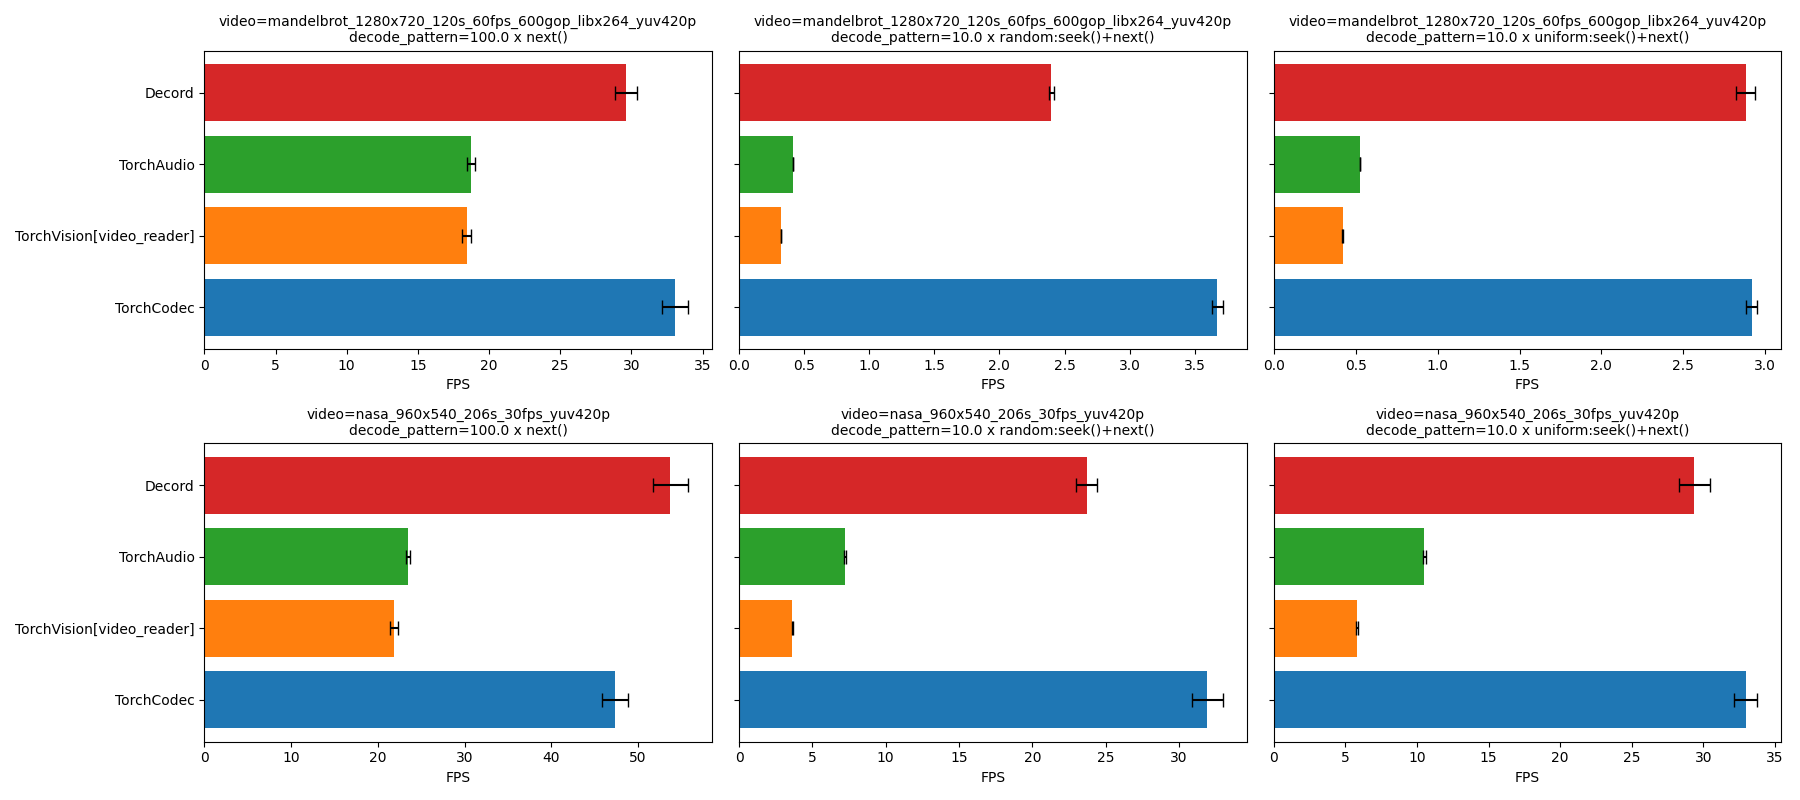
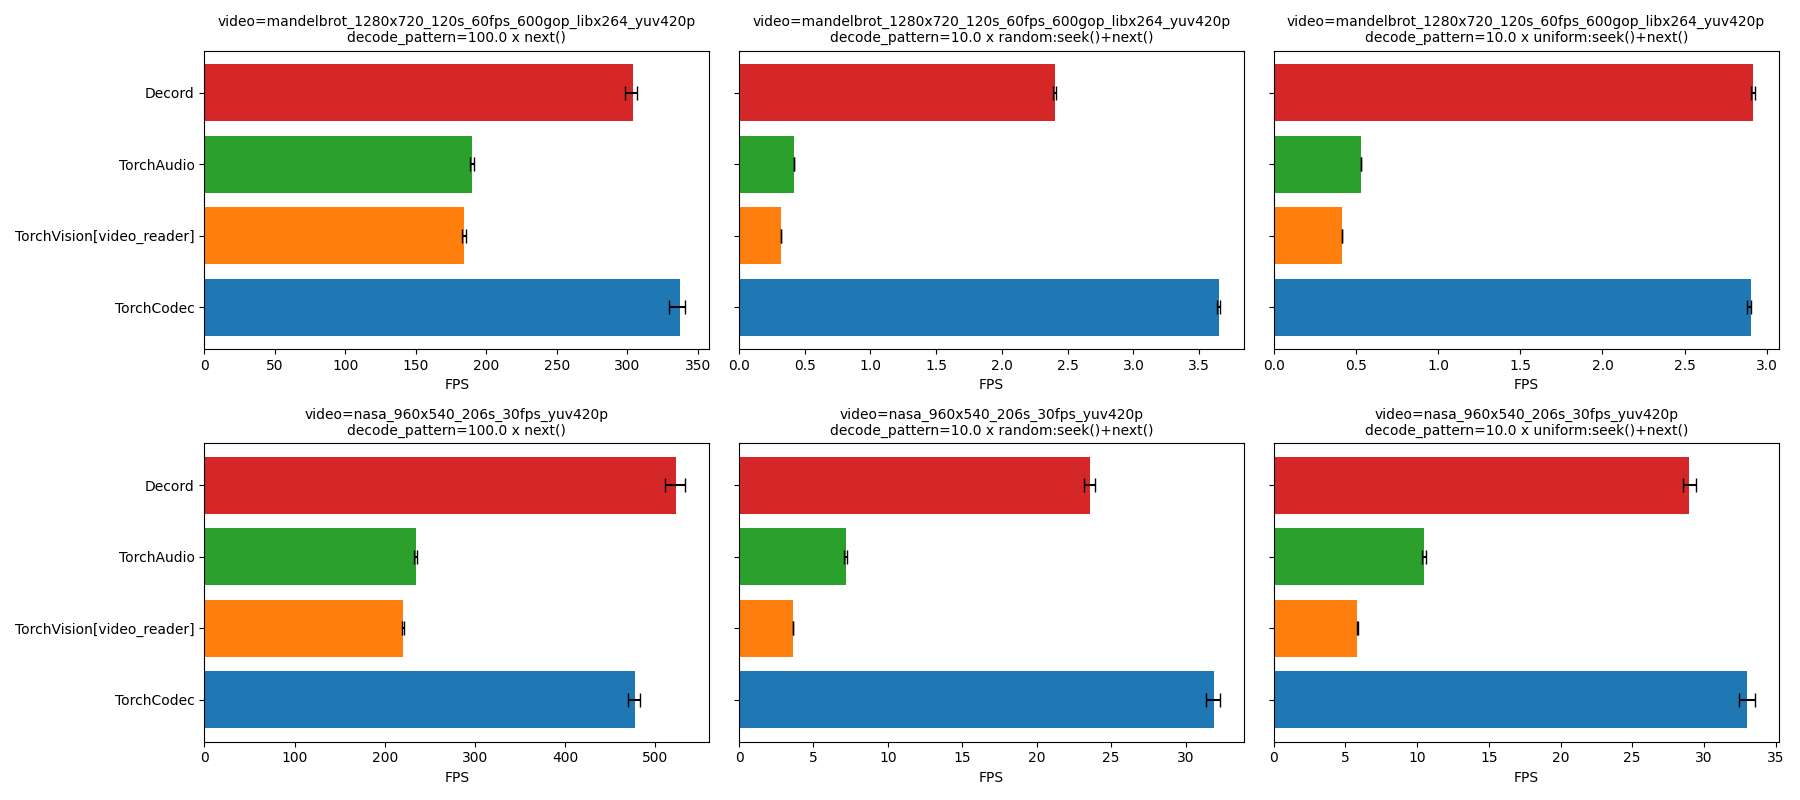
Revert mean back to median

diff --git a/benchmarks/decoders/benchmark_decoders_library.py b/benchmarks/decoders/benchmark_decoders_library.py
@@ -436,8 +436,8 @@ def plot_data(df_data, plot_path):
             # Plot bars with error bars
             ax.barh(
                 group["decoder"],
-                group["fps_mean"],
-                xerr=group["fps_std"],
+                group["fps_median"],
+                xerr=[group["fps_median"] - group["fps_p75"], group["fps_p25"] - group["fps_median"]],
                 color=[colors(i) for i in range(len(group))],
                 align="center",
                 capsize=5,
@@ -526,10 +526,6 @@ def run_benchmarks(
                 df_item["median"] = results[-1].median
                 df_item["iqr"] = results[-1].iqr
                 df_item["type"] = f"{kind}:seek()+next()"
-                df_item["fps_mean"] = num_samples / results[-1].mean
-                df_item["fps_std"] = np.std(
-                    [num_samples / t for t in results[-1].times]
-                )
                 df_item["fps_median"] = num_samples / results[-1].median
                 df_item["fps_p75"] = num_samples / results[-1]._p75
                 df_item["fps_p25"] = num_samples / results[-1]._p25
@@ -560,10 +556,6 @@ def run_benchmarks(
                 df_item["median"] = results[-1].median
                 df_item["iqr"] = results[-1].iqr
                 df_item["type"] = "next()"
-                df_item["fps_mean"] = num_samples / results[-1].mean
-                df_item["fps_std"] = np.std(
-                    [num_samples / t for t in results[-1].times]
-                )
                 df_item["fps_median"] = num_consecutive_nexts / results[-1].median
                 df_item["fps_p75"] = num_consecutive_nexts / results[-1]._p75
                 df_item["fps_p25"] = num_consecutive_nexts / results[-1]._p25
